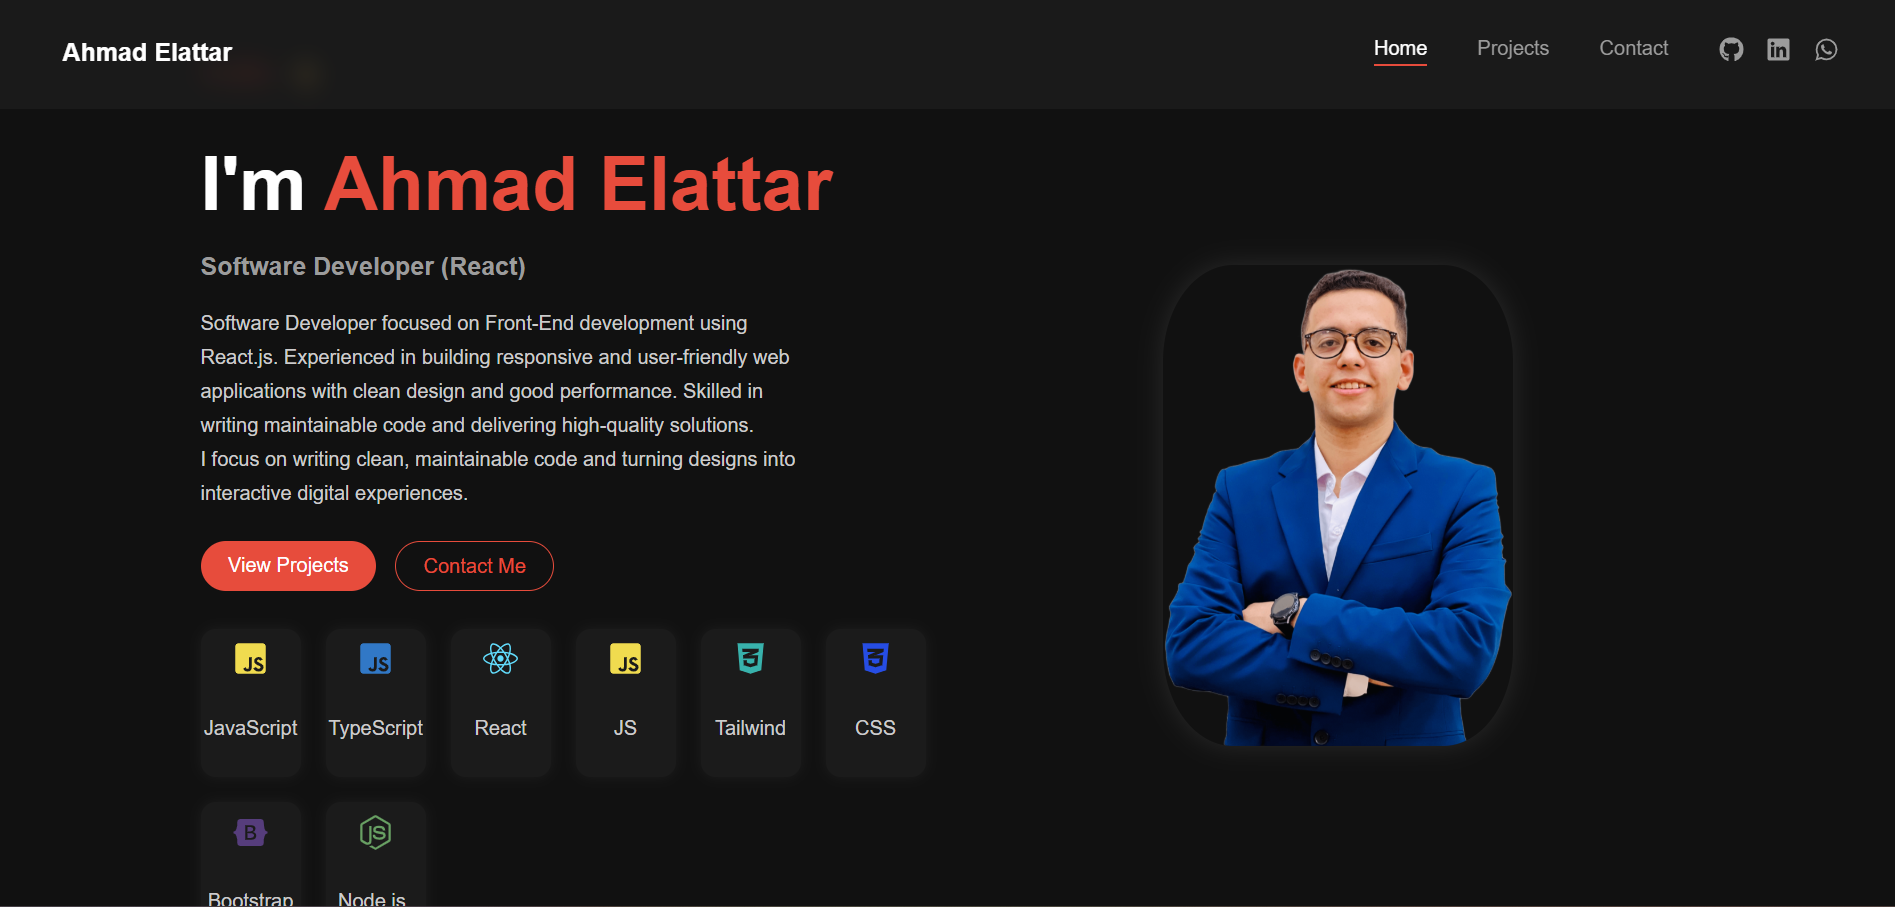
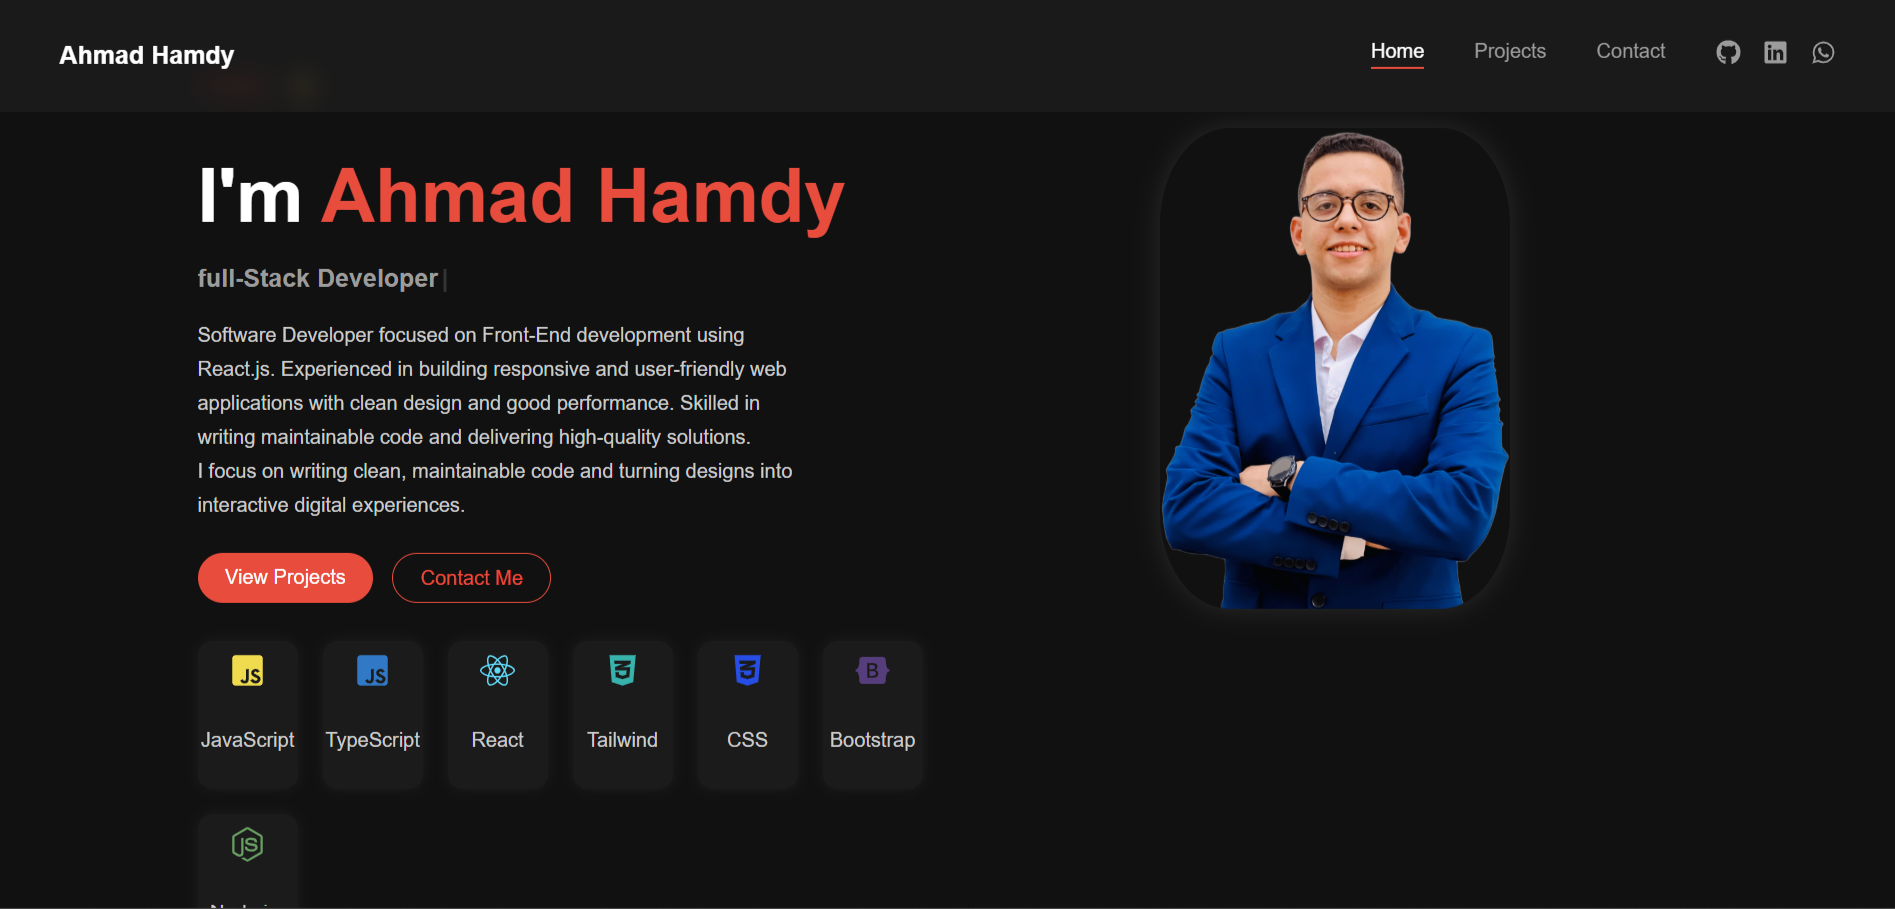
update-user7

diff --git a/src/components/Header.js b/src/components/Header.js
@@ -10,7 +10,7 @@ export default function Header() {
   return (
     <header className="header">
       <nav className="nav">
-        <p className="logo">Ahmad Elattar</p>
+        <p className="logo">Ahmad Hamdy</p>
 
         <div className="hamburger" onClick={() => setOpen(!open)}>
           &#9776;
